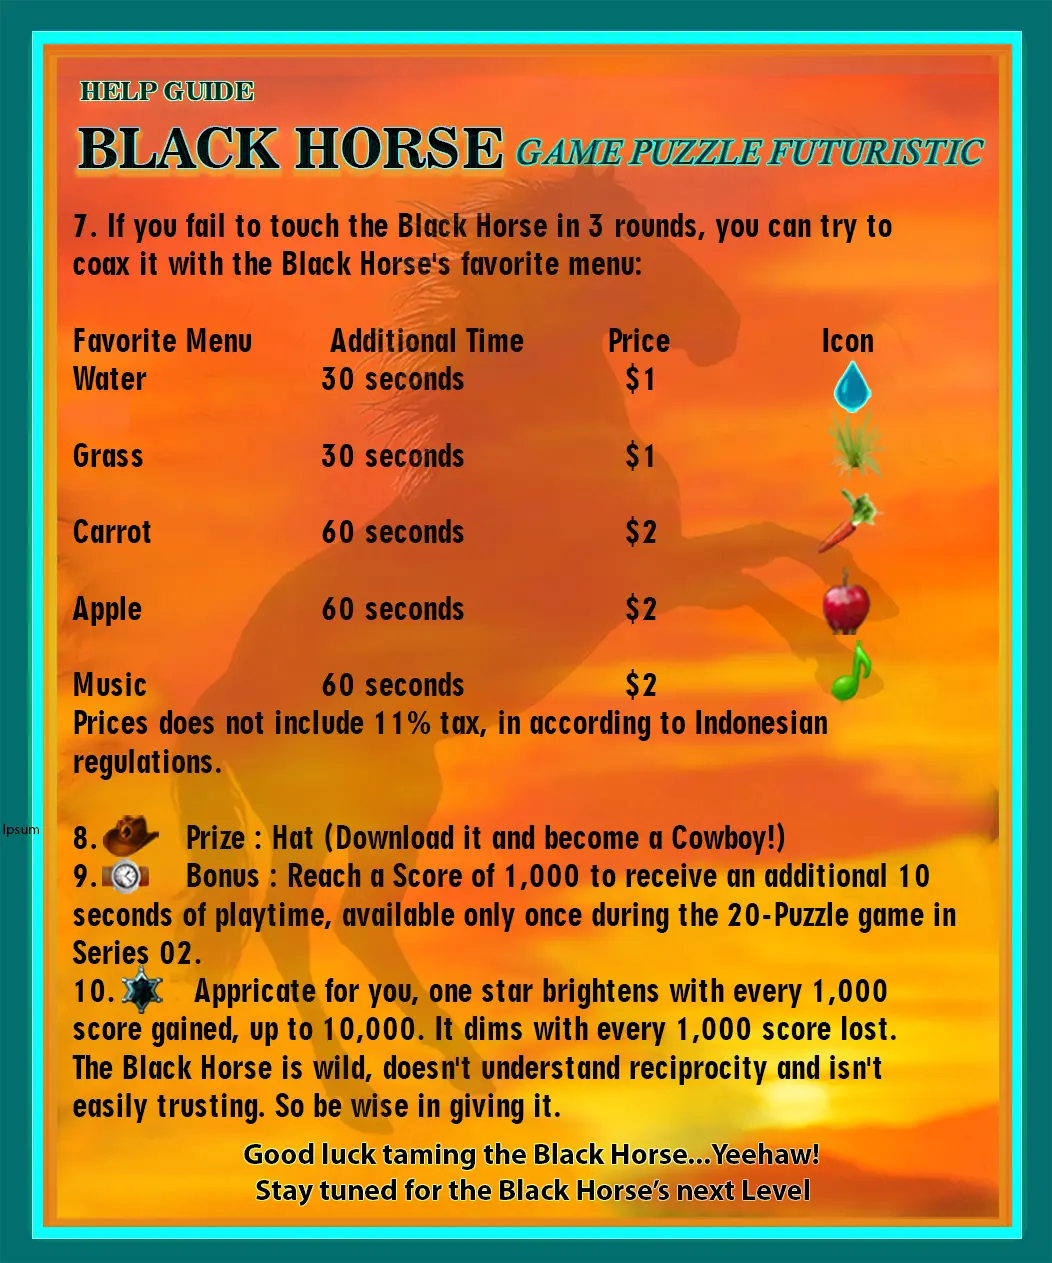
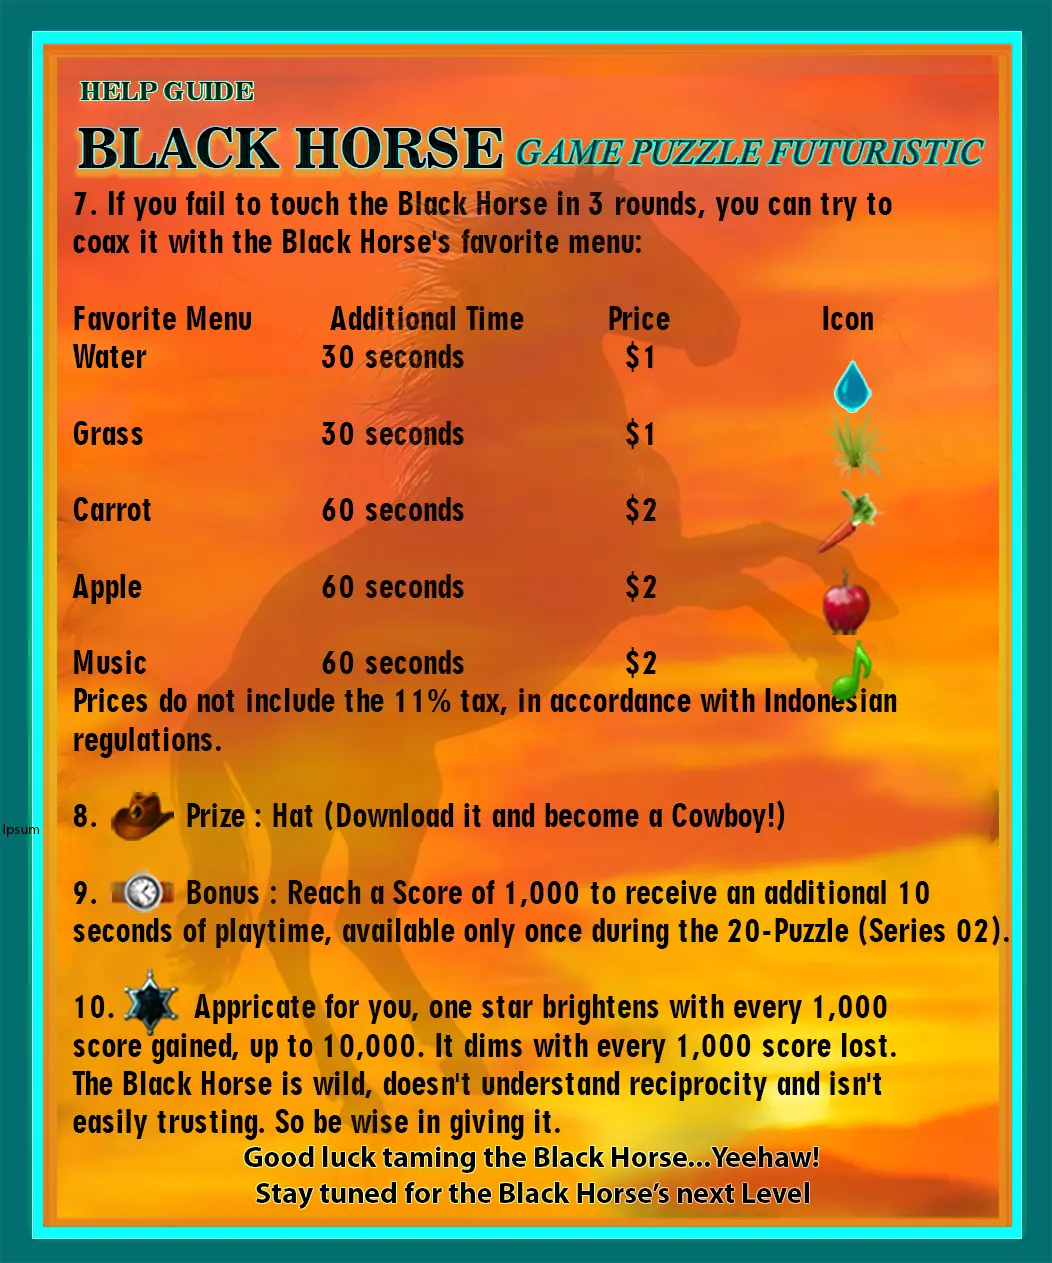
Update Index & Clock

diff --git a/index.html b/index.html
@@ -93,7 +93,7 @@
   <style>
      html, body {
         /* Gunakan background netral/gelap sederhana agar tidak ada jeda warna yang kontras */
-        background: #181c24;/*#110d08*/
+        background: #110d08;/*#110d08*/
         color: #e8a84f;
         overflow-x: hidden !important;
         width: 100vw !important;
@@ -119,7 +119,7 @@
         background: linear-gradient(180deg, rgba(43, 29, 20, 0.96) 0%, rgba(65, 43, 28, 0.92) 100%);
         border: 1px solid rgba(79, 215, 232, 0.26);
         box-shadow:
-          0 12px 48px rgba(0, 0, 0, 0.42),
+          0 12px 48px rgba(0, 0, 0, 0.42)/*0,0,0,0.42*/,
           0 0 22px rgba(79, 215, 232, 0.10),
           inset 0 0 18px rgba(236, 141, 6, 0.08);
       }
@@ -138,6 +138,7 @@
       canvas {
         display: block;
         max-width: 100vw;
+        max-height: 100vh;
         margin: 0 auto;
       }
 

diff --git a/Scenes/GameLoad.js b/Scenes/GameLoad.js
@@ -111,6 +111,7 @@ window.GameLoad.preloadAllAssets = function(scene) {
     scene.load.image('claimHatC', './Puzzle-Assets/UI/GM Claim Hat Coklat.webp');
     scene.load.image('candySunset', './Puzzle-Assets/UI/GM CandySunset.webp');
     scene.load.image('candyCyan', './Puzzle-Assets/UI/GM CandyCyan.webp');
+    scene.load.image('clock231126', './Puzzle-Assets/UI/GM My Clock 231126.webp');
   //scene.load.image('gameOver', './Puzzle-Assets/UI/GM. Game Over.webp');
   //Audio and Sound
     scene.load.image('soundOn', './Puzzle-Assets/UI/GM Sound On.webp');
